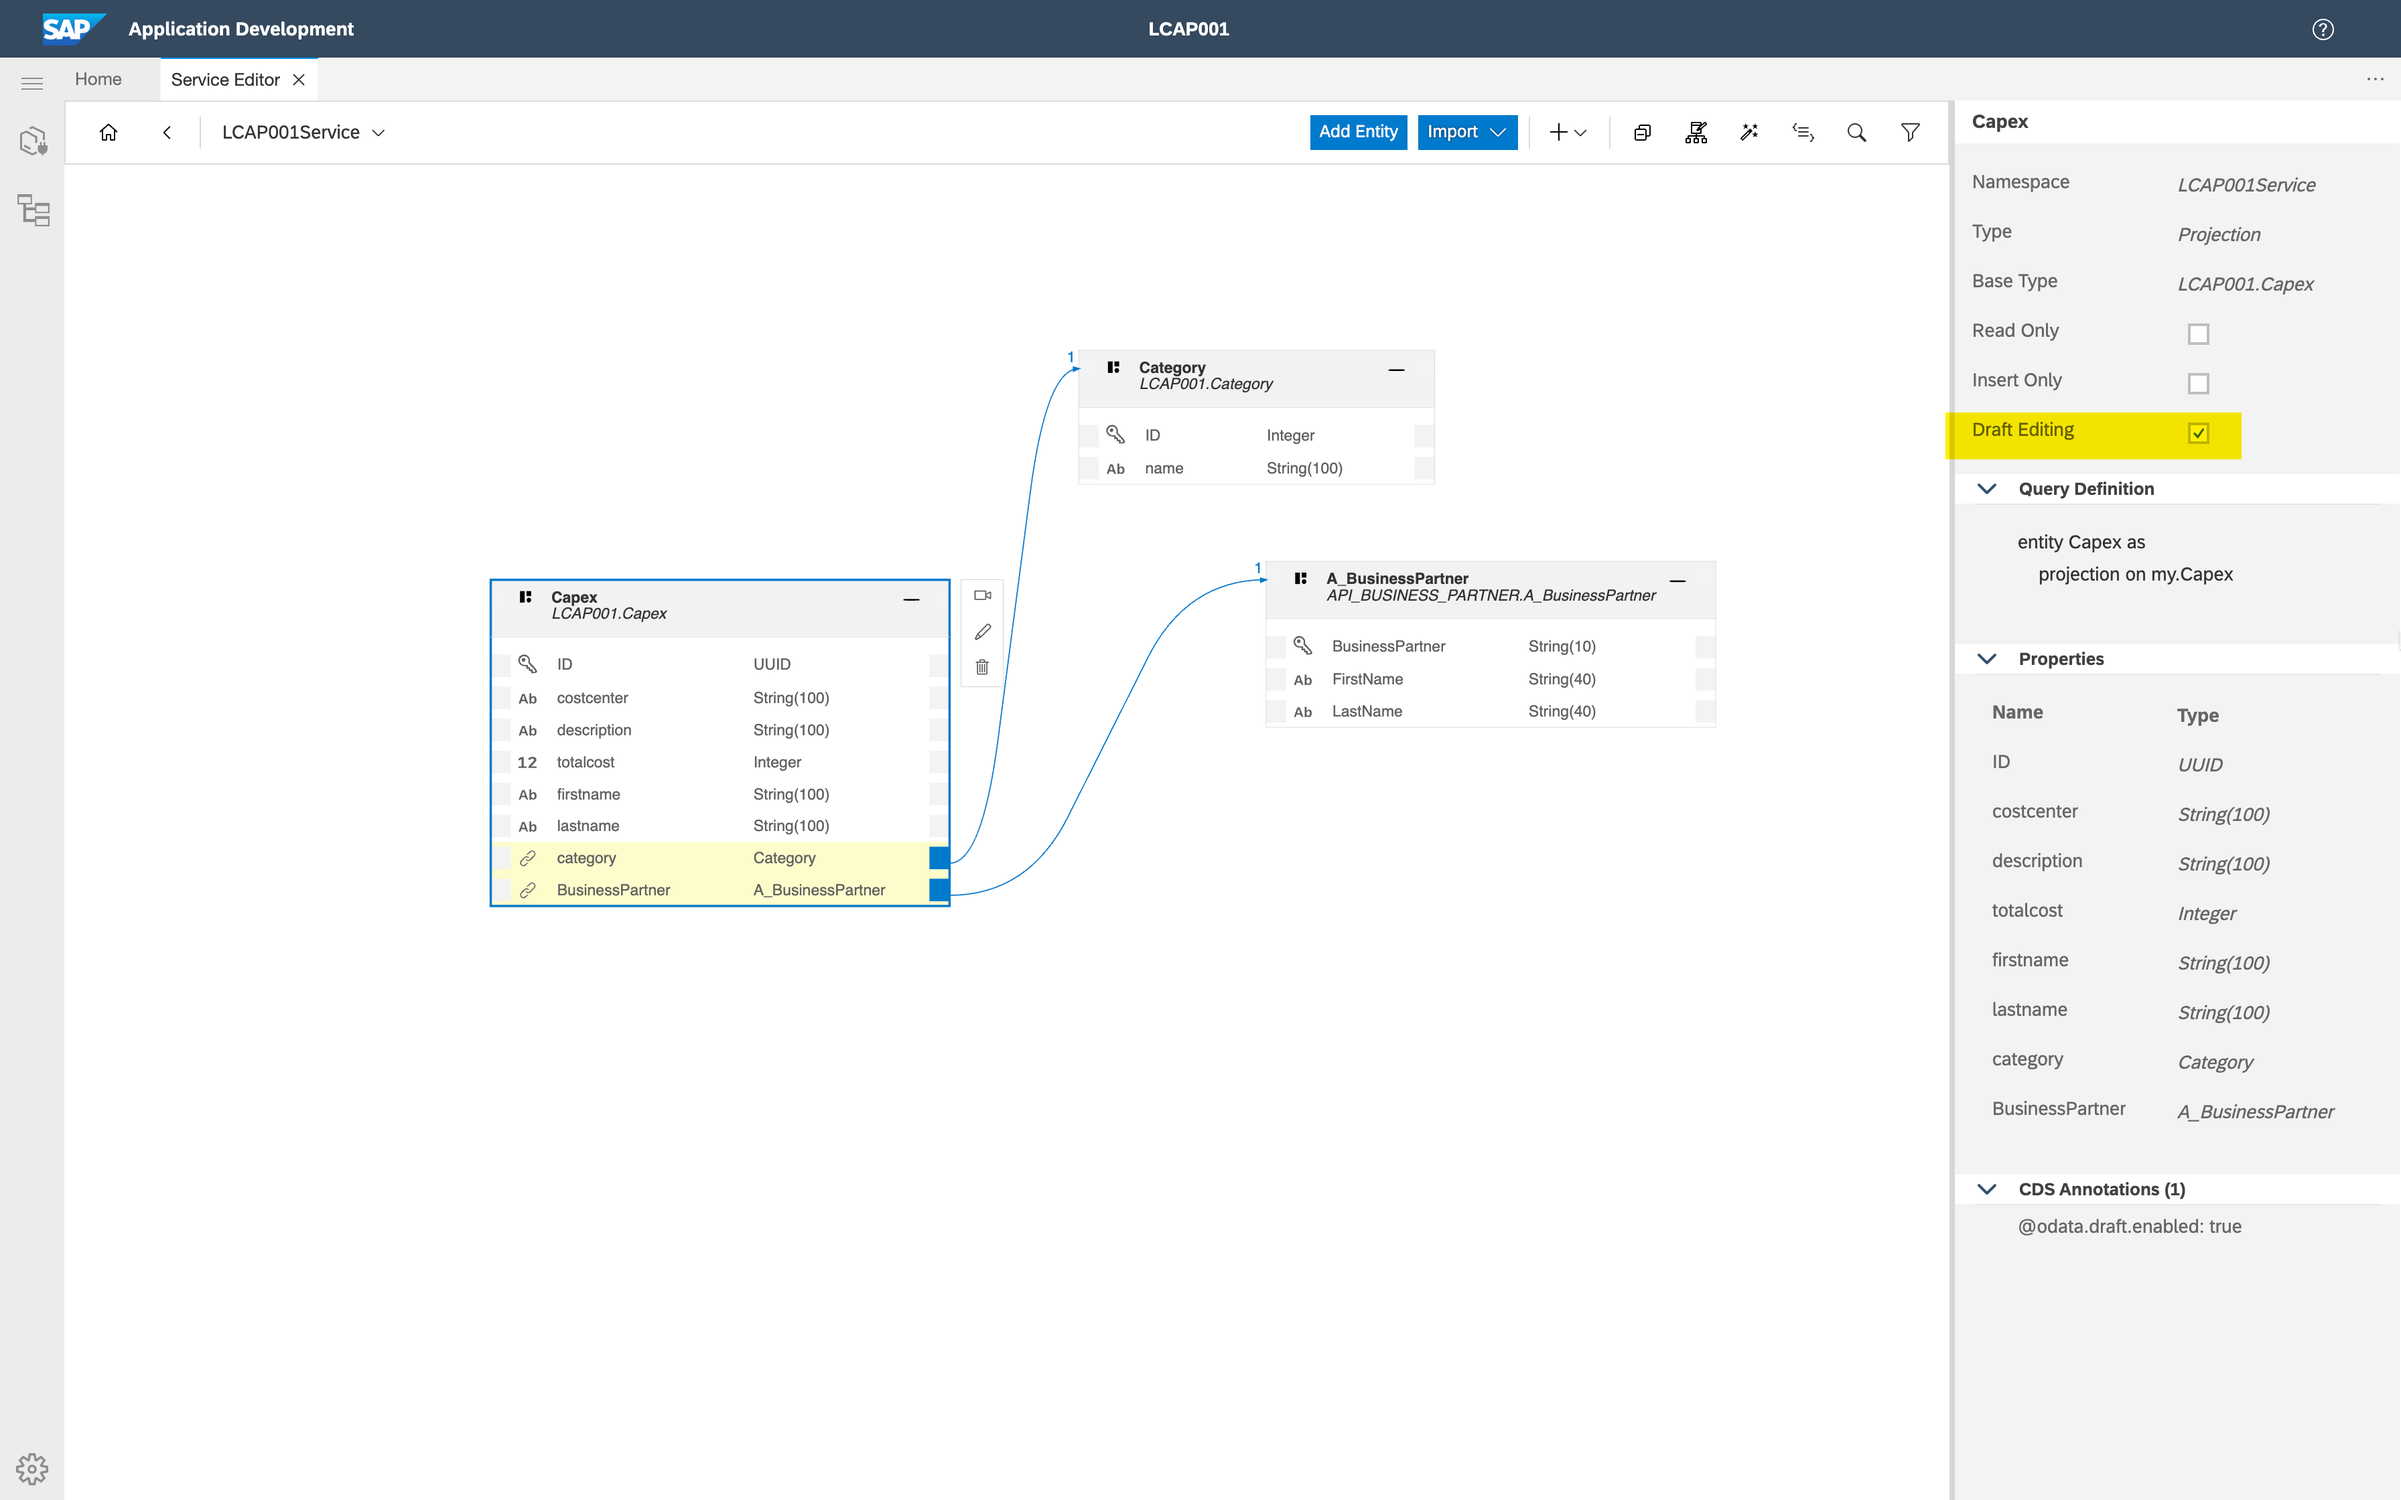
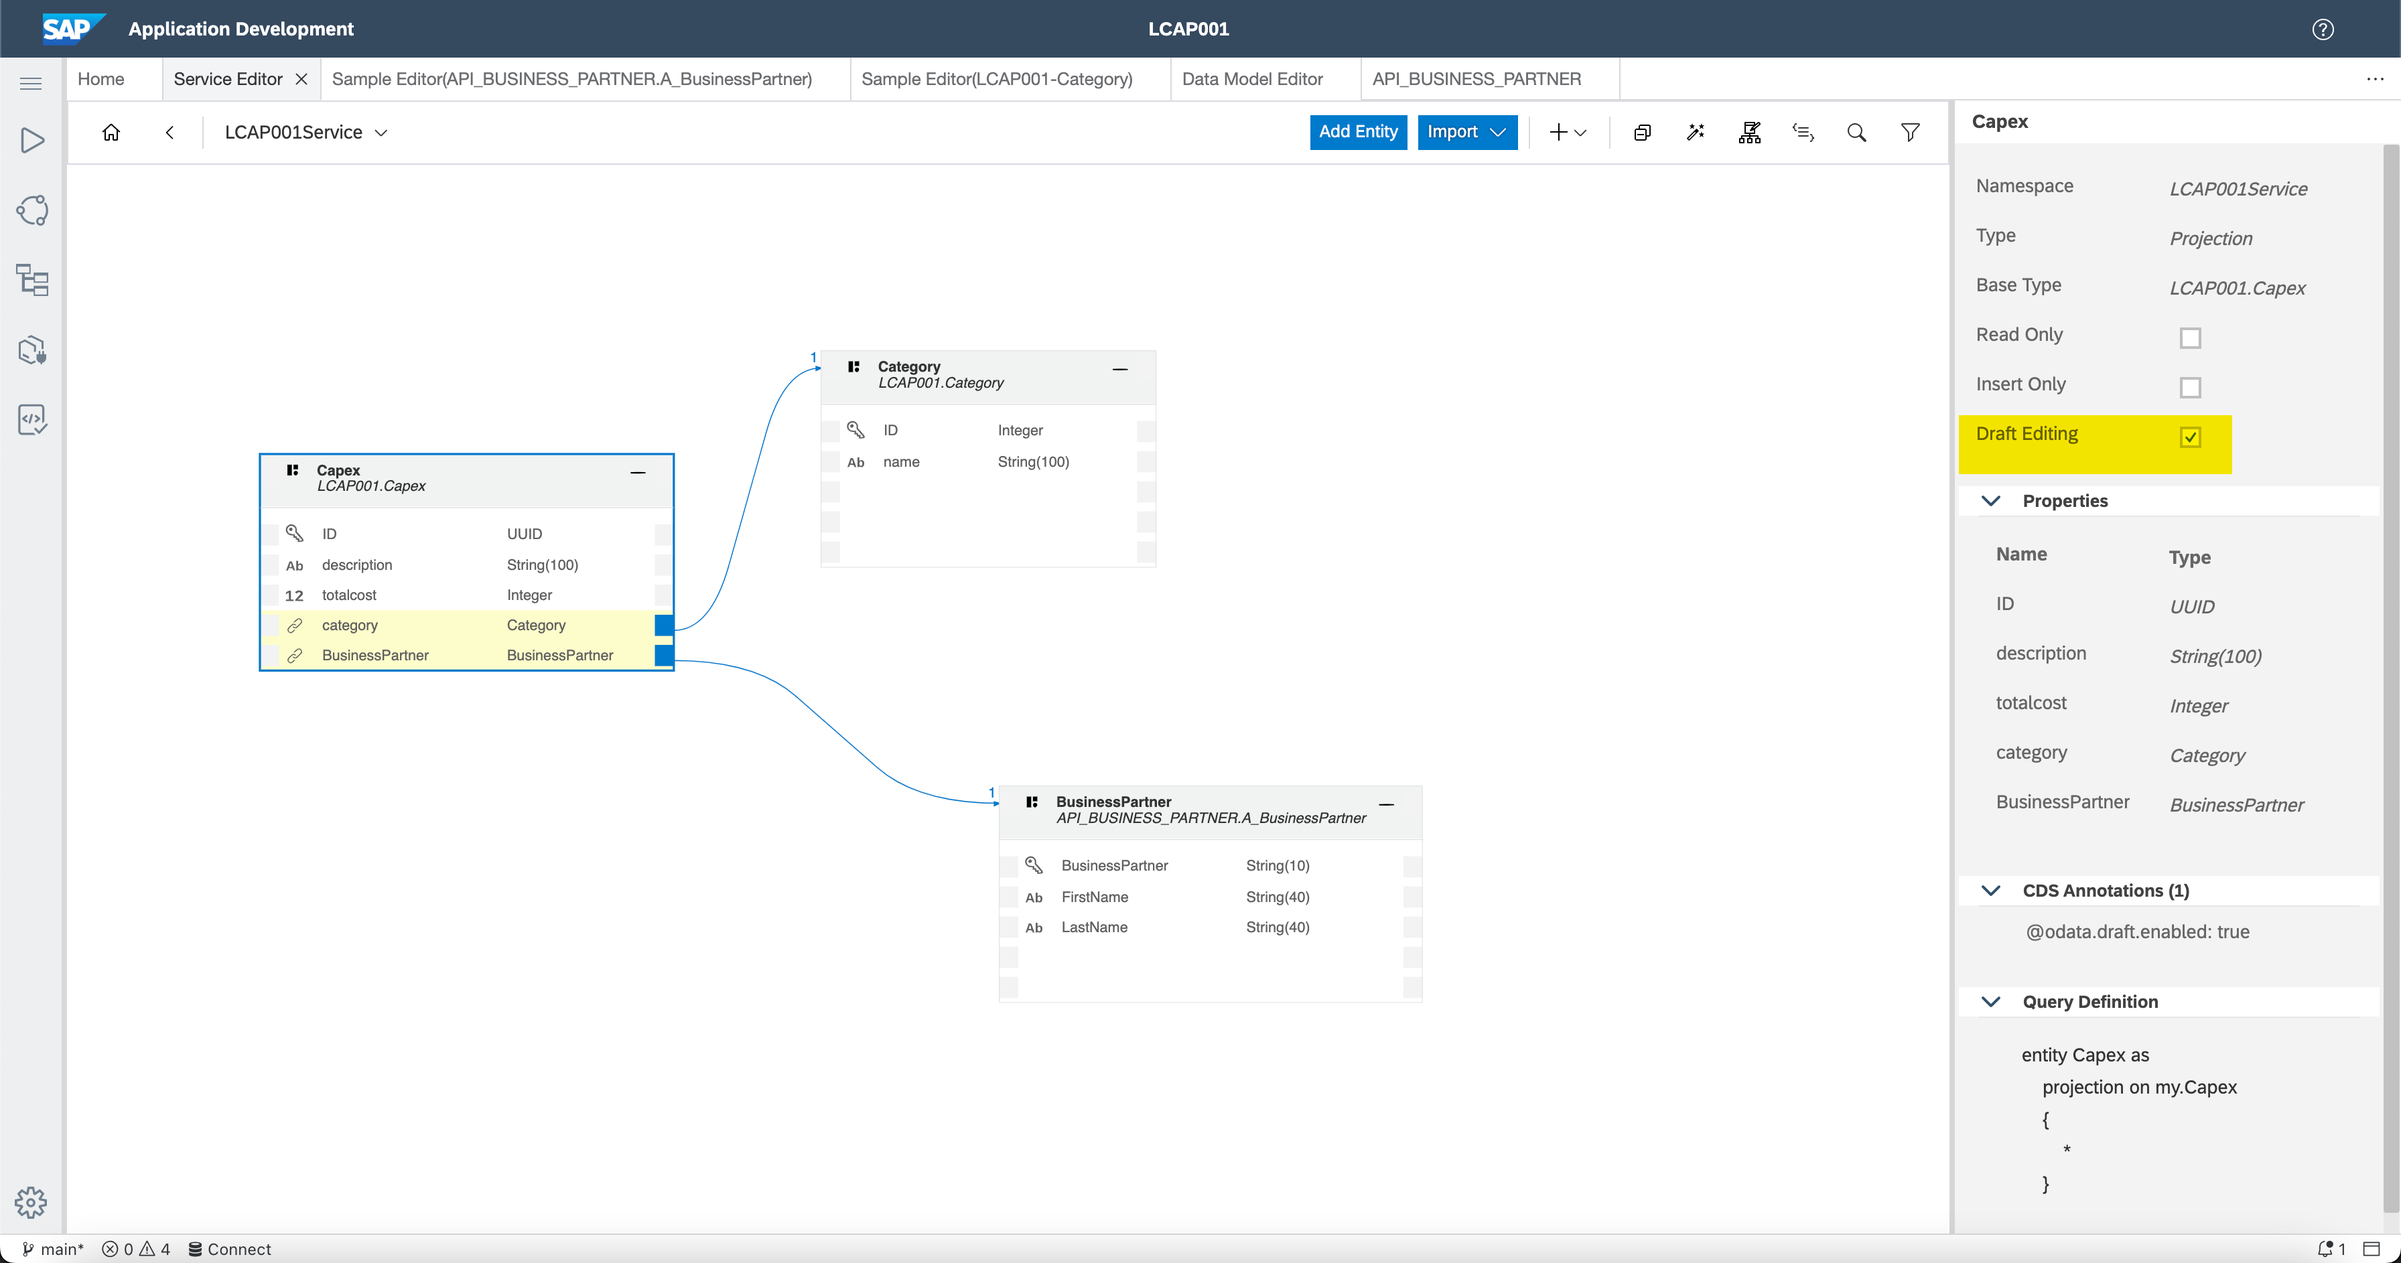
exercise 3

diff --git a/exercises/ex3/README.md b/exercises/ex3/README.md
@@ -1,6 +1,6 @@
 # Exercise 3 - Create a service (API)
 
-After the creation of the data model ( persistence layer ) we will now select what to expose to the outside world as an API. This API can then be consumed by UI apps, workflows, etc. .For this we will add several entities to a service. CAP will expose this service automatically as a full blown OData service.
+After the creation of the data model ( persistence layer ) we will now select what to expose to the outside world as an API. This API can then be consumed by UI apps, workflows, etc.. For this we will add several entities to a service. CAP will expose this service automatically as a full blown OData service.
 
 ## Create new service entities
 
@@ -25,6 +25,8 @@ Add a third entity, this time choose **API_BUSINESS_PARTNER.A_BusinessPartner**.
 - **Business Partner**
 - **FirstName**
 - **LastName**
+
+Also change the **Name** to be **BusinessPartner**
 
 ![](/exercises/ex3/images/LCAP_33.png)
 
